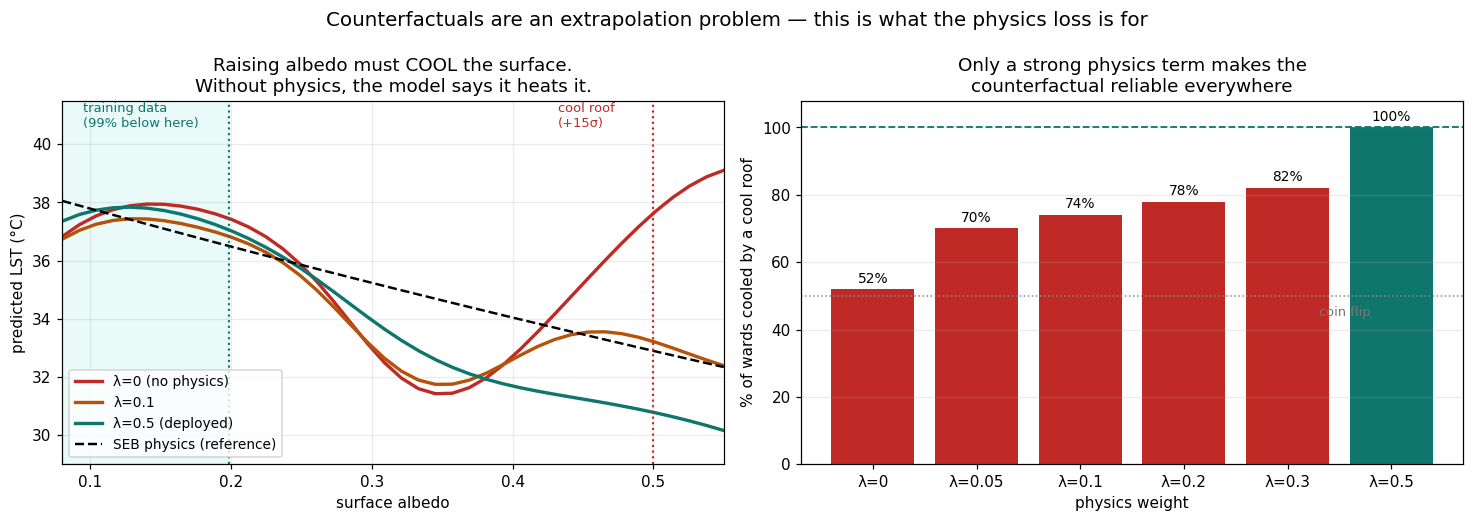
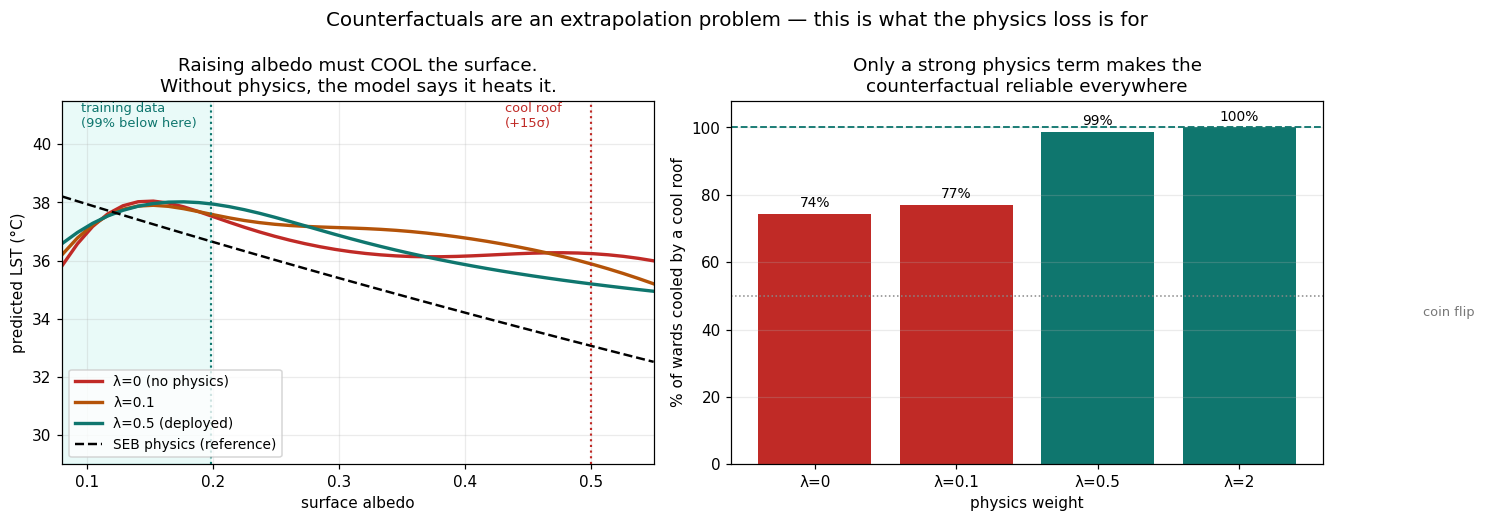
Close the ERA5-Land coastal gap: 50 -> 74 of 77 wards analysable
ERA5-Land carries a coarse land-sea mask on its ~11 km grid, and over Kochi that mask has no
land cell for the south and west of the corporation. Every climate band was null there, and
build_dataset samples with dropNulls=True, so those pixels were silently discarded: the training
table stopped dead at lon 76.25 / lat 9.95 — the exact 0.1 deg cell edges — and 27 of 77 wards
had no data at all. Fort Kochi, Mattancherry, Thevara and Palluruthy are built-up land, not
water; an earlier note in this repo calling them "water-dominated islands/backwaters" was wrong
and is corrected here.

data_engine/era5.py now extends the bands across those cells from their nearest valid
neighbours. Two details matter and are documented at the call site:

  * the kernel is sized in PIXELS with the computation pinned to ERA5's native projection.
    A radius given in metres is re-expressed at whatever scale the caller requests, and
    build_dataset samples at 30 m, where 33 km becomes a ~1100-pixel kernel that Earth Engine
    refuses outright.
  * skipMasked=False is what makes the reducer run AT a masked pixel using its valid
    neighbours. With the default the output stays masked and nothing is filled.

Verified against Earth Engine before rebuilding anything: Fort Kochi, Thevara and Kumbalam go
from null to 302.4 K, Kakkanad and Ernakulam come back bit-identical to the raw product, and a
test box over the south goes from 0 valid pixels to 77,220.

Dataset and model
[…]

diff --git a/web/planner/app.js b/web/planner/app.js
@@ -270,8 +270,10 @@
     if (cov) {
       cov.textContent = inert
         ? `${inert} of ${meta.n_wards_total} wards cannot currently be analysed. ${meta.no_data_reason || ""} `
-          + `Closing the gap means rebuilding the training table with the climate field filled in over `
-          + `coastal cells, then retraining the model.`
+          + `An earlier and much larger gap — 27 wards across southern and western Kochi — had a `
+          + `different cause: ERA5-Land's 11 km land-sea mask left the climate inputs null over the `
+          + `coastal cells, so those pixels were dropped from the training table. That one is closed; `
+          + `the forcing is now interpolated across those cells and the model retrained on it.`
         : "Every ward can be analysed.";
     }
   }
@@ -915,7 +917,8 @@
       if (!p.has_data && !inertHeaderDone) {
         inertHeaderDone = true;
         html += `<div class="ward-group" aria-hidden="true">Outside model coverage · ${inert}
-          <span>A data gap in the climate inputs over this coastal area — not a lack of land.</span></div>`;
+          <span>These boundary polygons return no pixels — a geometry problem in the source
+          file, not a lack of land or data.</span></div>`;
       }
       const name = escapeHtml(p.ward_name);
       html += `

diff --git a/data_engine/era5.py b/data_engine/era5.py
@@ -63,8 +63,56 @@ def ee_solar_radiation_wm2(overpass_millis):
     return ssrd_now.subtract(ssrd_prev).divide(3600).rename("s_down").max(0)
 
 
-def ee_climate_bands(overpass_millis):
-    """Return an ee.Image with bands [t_air, rh, wind, s_down] at the overpass time."""
+# ---- coastal gap fill ----
+#
+# ERA5-Land carries its own coarse land-sea mask on the ~11 km grid, and over Kochi that mask
+# drops the cells covering the south and west of the corporation — Fort Kochi, Mattancherry,
+# Thevara, Palluruthy, Konthuruthy. Every climate band is null there even though the Landsat
+# scene has tens of thousands of valid land pixels in the same place. build_dataset samples
+# with dropNulls=True, so those pixels were silently discarded and the training table stopped
+# dead at lon 76.25 / lat 9.95 — the exact 0.1 deg cell edges. That cost ~20% of the
+# corporation and left 27 of 77 wards with no data at all.
+#
+# So the bands are extended across those cells from their nearest valid neighbours. At 11 km
+# ERA5-Land cannot resolve intra-city variation in the first place — the module docstring
+# above already calls these near-constant regional forcings — so what filling invents is small
+# beside what dropping a fifth of the city destroyed. Pixels that rely on it are flagged
+# (climate_filled) so the choice stays visible downstream and in the report.
+
+FILL_RADIUS_CELLS = 3      # ~33 km; the coastal gap is 1-3 cells wide
+FILL_PASSES = 2
+
+
+def _fill_masked(img, proj, radius_cells=FILL_RADIUS_CELLS, passes=FILL_PASSES):
+    """Extend `img` over cells its own mask drops, using the mean of valid neighbours.
+
+    Two details matter and both are easy to get wrong:
+
+    1. The kernel is sized in PIXELS, not metres, and the computation is pinned to ERA5's
+       native projection with reproject(). A kernel given in metres is re-expressed at
+       whatever scale the caller requests — build_dataset samples at 30 m, where a 33 km
+       radius becomes a ~1100-pixel kernel that Earth Engine refuses outright.
+    2. skipMasked=False is what makes the reducer run AT a masked pixel using its valid
+       neighbours. With the default (True) the output stays masked and nothing is filled.
+    """
+    names = img.bandNames()
+    kernel = ee.Kernel.circle(radius=radius_cells, units="pixels")
+    out = img.reproject(proj)
+    for _ in range(passes):
+        neighbours = out.reduceNeighborhood(
+            reducer=ee.Reducer.mean(), kernel=kernel, skipMasked=False,
+        ).rename(names).reproject(proj)
+        out = out.unmask(neighbours).reproject(proj)
+    return out
+
+
+def ee_climate_bands(overpass_millis, fill_gaps=True):
+    """Return an ee.Image with bands [t_air, rh, wind, s_down] at the overpass time.
+
+    With fill_gaps (the default) the bands are extended over ERA5-Land's coastal land-sea
+    mask gaps and a 0/1 `climate_filled` band says which pixels needed it. Pass False to see
+    the raw product — that is what the first version of the training table was built on.
+    """
     t = ee.Date(overpass_millis)
     hour_start = ee.Date.fromYMD(t.get("year"), t.get("month"), t.get("day")).advance(t.get("hour"), "hour")
     era = ee.Image(ee.ImageCollection(ERA5_HOURLY)
@@ -78,4 +126,11 @@ def ee_climate_bands(overpass_millis):
     rh = _es_ee(dew).divide(_es_ee(t_air)).multiply(100).clamp(0, 100).rename("rh")
     s_down = ee_solar_radiation_wm2(overpass_millis)                   # W/m^2
 
-    return t_air.addBands([rh, wind, s_down])
+    bands = t_air.addBands([rh, wind, s_down])
+    if not fill_gaps:
+        return bands
+
+    # The flag comes from the ORIGINAL mask, before anything is filled.
+    was_missing = t_air.mask().Not().unmask(1).rename("climate_filled")
+    proj = era.select("temperature_2m").projection()
+    return _fill_masked(bands, proj).addBands(was_missing)

diff --git a/api/inference.py b/api/inference.py
@@ -4,20 +4,31 @@ Loads the physics-informed checkpoint and serves predictions and counterfactuals
 api/main.py (ward-level) and api/live_demo.py (point/area), so both run on the same model.
 
 CHECKPOINT CHOICE — lambda=0.5, NOT the best in-distribution model
-    In-distribution metrics favour lambda~0.05-0.1 (R2 0.84 vs 0.60). Those metrics are
+    In-distribution metrics favour lambda<=0.1 (R2 0.77-0.80 against 0.52). Those metrics are
     misleading here, because a counterfactual is an EXTRAPOLATION: a cool roof sets albedo to
-    0.50, which is 15.5 standard deviations above the training mean (0.134 +/- 0.024, p99 0.198).
-    Measured on ward feature vectors:
+    0.50, which is 15.6 standard deviations above the training mean (0.133 +/- 0.024).
+    Measured on the 74 ward-mean feature vectors of the rebuilt table (2026-10-02):
 
-        lambda   cool-roof dT   wards cooling   albedo response monotonic
-        0        -0.84 K        52%  (coin flip)   43%
-        0.1      -3.35 K        74%               71%
-        0.3      -4.48 K        82%              100%
-        0.5      -6.17 K       100%              100%
+        lambda  cool-roof dT  worst ward  wards cooling  albedo steps in the WRONG direction
+        0       -2.07 K        +5.20 K     74%           25%
+        0.1     -2.59 K        +4.05 K     77%           19%
+        0.5     -2.27 K        +0.14 K     99%           12%
+        2       -6.11 K        -2.38 K    100%            7%
 
-    The no-physics model predicts a cool roof WARMS the surface by up to 9 K — exactly the
-    "physically impossible output under intervention" the project exists to prevent. Only a
-    strong physics weight makes extrapolation safe, so the deployed model is lambda=0.5.
+    "Worst ward" is the least-cooling ward: a positive value means the model predicts that
+    painting that ward's roofs white HEATS it — exactly the "physically impossible output under
+    intervention" this project exists to prevent. Without a strong physics weight a quarter of
+    the city gets that answer.
+
+    lambda=2 is the only checkpoint with no heating ward at all, and it was considered. It was
+    not chosen because it flattens the vegetation response to -0.47 K against lambda=0.5's
+    -0.62 K and lambda=0.1's -1.37 K. The platform's purpose is COMPARING interventions, and a
+    model that systematically understates greening against cool roofs would bias that comparison
+    in a policy-relevant direction. lambda=0.5 keeps every ward cooling (its one outlier is
+    +0.14 K, neutral within noise) while leaving the strategies comparable.
+
+    NOTE: these numbers replace an earlier table measured on the pre-ERA5-fix dataset, which
+    covered only 50 wards. The conclusion survived the rebuild; the magnitudes did not.
 
     The accuracy cost is acceptable because the BASELINE temperature comes from the measured
     satellite LST, not the model; the model supplies only the RESPONSE (delta_t). Selecting a

diff --git a/data_engine/build_dataset.py b/data_engine/build_dataset.py
@@ -1,8 +1,8 @@
 """Dataset assembly -> the canonical training table (plan §5.5).
 
-Usage:
-    python data_engine/build_dataset.py --config configs/data_config.yaml
-    python data_engine/build_dataset.py --per-scene 3000 --max-scenes 12
+Usage (as a module — the package uses relative imports, so running the file directly fails):
+    python -m data_engine.build_dataset --config configs/data_config.yaml
+    python -m data_engine.build_dataset --per-scene 3000 --max-scenes 12
 
 Pipeline (per Landsat 8/9 C2 L2 scene over the Kochi AOI, dry season):
     cloud-mask (QA_PIXEL) -> scale SR -> NDVI/NDBI/albedo -> LST[K] from ST_B10
@@ -11,8 +11,12 @@ Pipeline (per Landsat 8/9 C2 L2 scene over the Kochi AOI, dry season):
 Then locally: join ward_id (shapely point-in-polygon), drop physical outliers, write parquet.
 
 Output columns (DATASET CONTRACT):
-    lon, lat, date, ndvi, ndbi, albedo, s_down, t_air, rh, wind, lst, lst_source, ward_id
-(temperatures in KELVIN; lst_source is 'landsat' in v1 — MODIS gap-fill is a later augmentation.)
+    lon, lat, date, ndvi, ndbi, albedo, s_down, t_air, rh, wind, lst, lst_source, ward_id,
+    climate_filled
+(temperatures in KELVIN; lst_source is 'landsat' in v1 — MODIS gap-fill is a later augmentation.
+climate_filled is 1 where the ERA5-Land land-sea mask had no value and the forcing was
+interpolated from neighbouring cells — see data_engine/era5.py. It is NOT a model input; it is
+there so the coastal pixels can be isolated when reporting.)
 
 Notes:
 - Indices are computed from the SAME Landsat scene as the LST target (no cross-sensor time
@@ -31,7 +35,7 @@ from .cloud_mask import mask_landsat_qa
 from .era5 import ee_climate_bands
 
 SCHEMA = ["lon", "lat", "date", "ndvi", "ndbi", "albedo",
-          "s_down", "t_air", "rh", "wind", "lst", "lst_source", "ward_id"]
+          "s_down", "t_air", "rh", "wind", "lst", "lst_source", "ward_id", "climate_filled"]
 
 # Landsat C2 L2 scaling.
 SR_SCALE, SR_OFFSET = 0.0000275, -0.2
@@ -187,6 +191,11 @@ def build(config_path, per_scene=None, max_scenes=None):
     print(f"Ward join: {in_ward}/{len(df)} pixels fell inside a ward polygon")
 
     df["lst_source"] = "landsat"
+    # Sampling returns the flag as a float; keep it small and integral.
+    df["climate_filled"] = df.get("climate_filled", 0).fillna(0).astype("int8")
+    n_filled = int(df.climate_filled.sum())
+    print(f"Climate gap-fill: {n_filled}/{len(df)} rows ({100 * n_filled / max(len(df), 1):.1f}%) "
+          f"use ERA5 forcing interpolated over the coastal land-sea mask")
     df = df[SCHEMA]
 
     out = config["output"]["samples_file"]

diff --git a/api/planner.py b/api/planner.py
@@ -75,10 +75,15 @@ LST_MIN, LST_MAX = 31, 41
 # and the coastal cells covering southern and western Kochi are masked as sea. Their climate bands
 # are null, and the dataset builder drops any pixel with a null band (dropNulls), so ~20% of the
 # corporation never reached the table even though Landsat covers it fully.
+# Until the ERA5-Land coastal gap was closed this covered 27 wards and the reason was the
+# climate inputs: the 11 km land-sea mask had no land cell over southern and western Kochi, so
+# dropNulls discarded every pixel there (see data_engine/era5.py). That is fixed, and 74 of 77
+# wards now carry data. What is left is a different, smaller problem with a different cause, so
+# the wording no longer blames the climate inputs for it.
 NO_DATA_REASON = (
-    "Outside current model coverage. The climate inputs (ERA5-Land, 11 km) have no land cell "
-    "over this coastal area, so the model has nothing to run on here. This is a data gap, not "
-    "a judgement that the ward has no land."
+    "Outside current model coverage. This ward's boundary polygon returns no pixels at all — "
+    "even sampling a constant image over it comes back empty — which points to a problem with "
+    "the geometry in the source boundary file rather than missing satellite or climate data."
 )
 
 
@@ -644,8 +649,8 @@ def analyze(req: AnalyzeRequest):
         rows = [r for r in rows if r.get("lst") is not None]
         if not rows:
             raise HTTPException(
-                422, "No usable pixels in that area. It may be open water or cloud, or a coastal "
-                     "area the climate inputs do not cover (parts of southern and western Kochi).")
+                422, "No usable pixels in that area. It is most likely open water or was cloudy "
+                     "in every scene — both are masked out of the land-surface record.")
 
         frame = pd.DataFrame(rows)
         for c in INPUT_COLUMNS:

diff --git a/scripts/plot_extrapolation.py b/scripts/plot_extrapolation.py
@@ -22,6 +22,10 @@ from models import sebal as S                # noqa: E402
 PARQUET = "data/processed/kochi_samples.parquet"
 OUT = "docs/figures/extrapolation.png"
 
+# These must be the lambdas run_pinn.py actually trained on the CURRENT dataset. Loading a
+# checkpoint from an earlier training run against the current scaler.json produces a plausible
+# looking but meaningless curve, which is why the pre-fix checkpoints were moved out of this
+# directory (see models/checkpoints/pre_era5fix/README.md).
 CKPTS = [("mlp_lambda0", "λ=0 (no physics)", "#c02a26"),
          ("pinn_lambda0.1", "λ=0.1", "#b45309"),
          ("pinn_lambda0.5", "λ=0.5 (deployed)", "#0f766e")]
@@ -69,9 +73,8 @@ def main():
     # --- right: how often the direction is right, per ward ---
     wf = {c: w[c].to_numpy() for c in INPUT_COLUMNS}
     labs, pct = [], []
-    for ck, lab, col in [("mlp_lambda0", "λ=0", None), ("pinn_lambda0.05", "λ=0.05", None),
-                         ("pinn_lambda0.1", "λ=0.1", None), ("pinn_lambda0.2", "λ=0.2", None),
-                         ("pinn_lambda0.3", "λ=0.3", None), ("pinn_lambda0.5", "λ=0.5", None)]:
+    for ck, lab, col in [("mlp_lambda0", "λ=0", None), ("pinn_lambda0.1", "λ=0.1", None),
+                         ("pinn_lambda0.5", "λ=0.5", None), ("pinn_lambda2", "λ=2", None)]:
         m = PinnModel(f"models/checkpoints/{ck}.pt")
         t0 = m.predict_k(wf)
         mod = dict(wf); mod["albedo"] = np.maximum(wf["albedo"], 0.50)

diff --git a/scripts/build_ward_stats.py b/scripts/build_ward_stats.py
@@ -6,8 +6,13 @@ JS data file the simulator page includes directly (no server / no CORS needed):
 
     web/ward_data.js   ->  window.WARD_DATA (GeoJSON) and window.CLIMATE (scene-mean forcing)
 
-Wards with no land pixels (water-dominated islands/backwaters) fall back to the city-mean LST
-and are flagged has_data=false.
+Wards with no pixels in the table fall back to the city-mean LST and are flagged has_data=false.
+
+That used to be described here as "water-dominated islands/backwaters". It was not: the wards
+without rows were built-up land — Fort Kochi, Mattancherry, Thevara, Palluruthy — and they were
+missing because ERA5-Land's coarse land-sea mask left the climate bands null over the coastal
+cells, which dropNulls then discarded. data_engine/era5.py now fills those cells, so this branch
+should be rare; anything still landing in it needs a real explanation, not an assumption.
 """
 
 import json

diff --git a/README.md b/README.md
@@ -90,7 +90,7 @@ python scripts/run_cnn.py --chips data/processed/kochi_chips_p9.npz
 python scripts/build_roof_share.py       # measured roof share per ward, from building footprints
 ```
 
-`scripts/run_augmented.py` is the one to read first. The deployed model trades R² 0.84 → 0.60 for
+`scripts/run_augmented.py` is the one to read first. The deployed model trades R² 0.85 → 0.52 for
 safe extrapolation, and the argument in `models/synthetic.py` is that this trade-off is an
 artefact of a **data gap** (albedo > 0.2 never occurs in the satellite record) rather than a real
 tension. It fills that gap with counterfactuals anchored to real pixels and labelled
